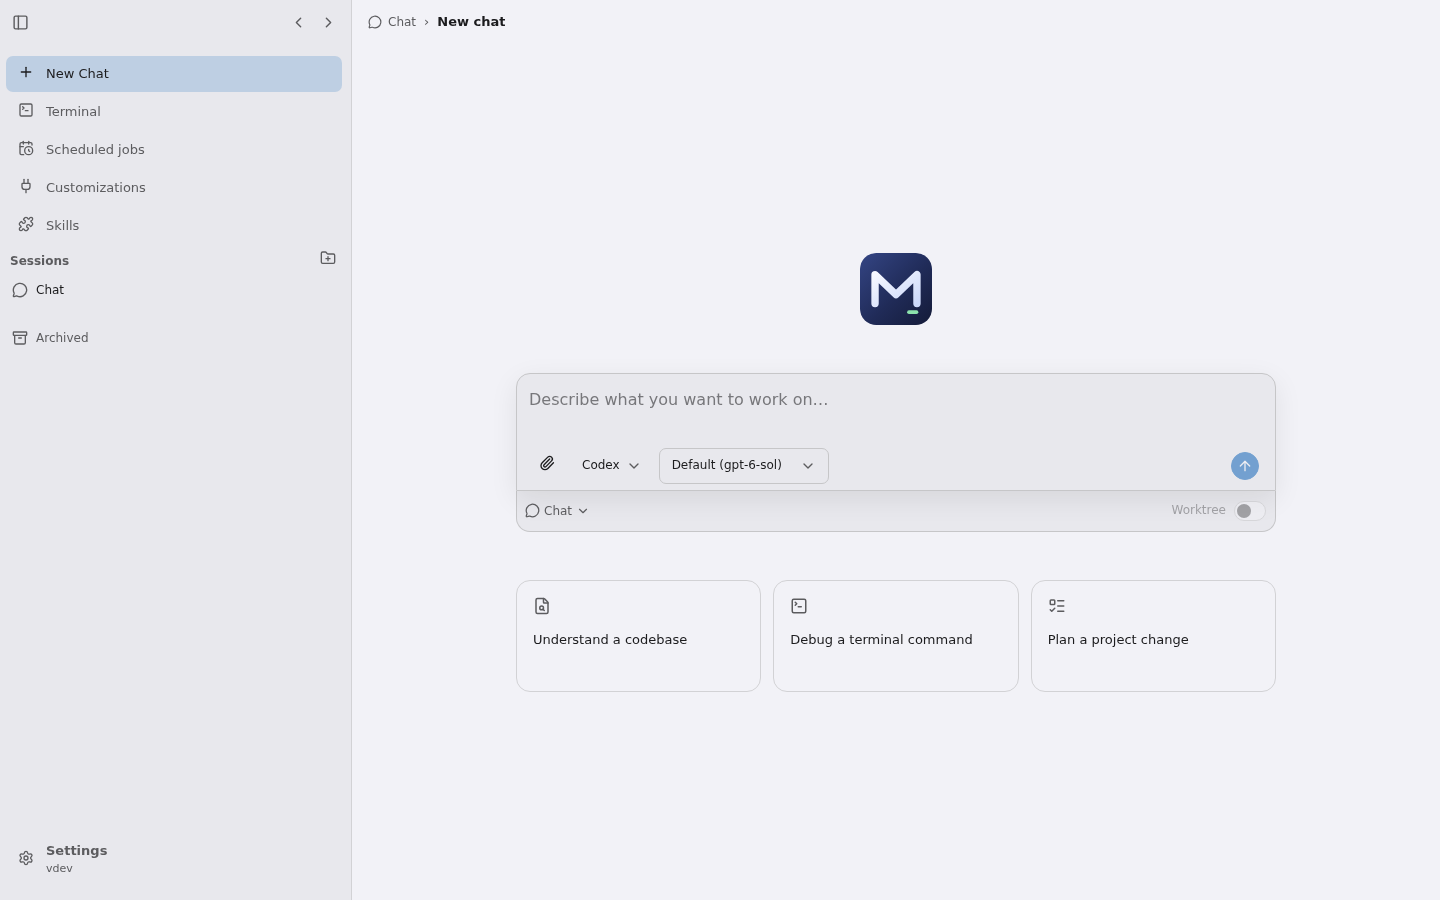
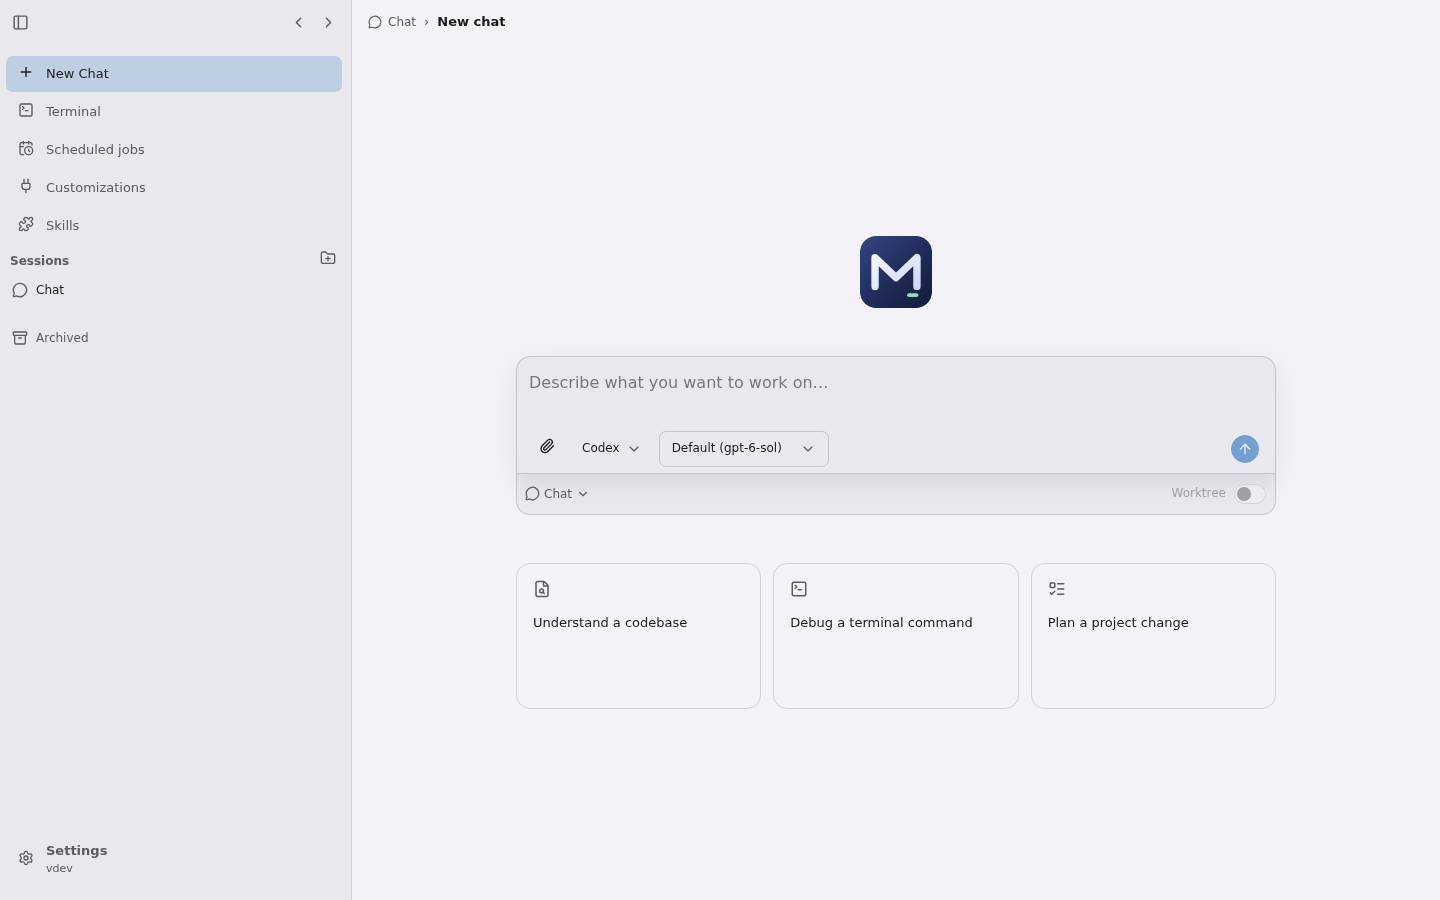
Use shared UI controls for starter prompts

diff --git a/web/src/components/mux-new-chat.ts b/web/src/components/mux-new-chat.ts
@@ -102,9 +102,10 @@ export class MuxNewChat extends LitElement {
     .main { flex:1; min-height:0; display:flex; flex-direction:column; justify-content:center; align-items:center; padding:var(--ui-space-8); overflow:auto; }
     .main.setup { justify-content:flex-start; }
     .identity { display:flex; justify-content:center; margin:0 0 var(--ui-space-11); }
-    .identity img { width:72px; height:72px; border-radius:var(--ui-radius-xl); }
+    .identity img { width:var(--ui-space-14); height:var(--ui-space-14); border-radius:var(--ui-radius-xl); }
     .starter-prompts { display:grid; grid-template-columns:repeat(3,minmax(0,1fr)); gap:var(--ui-space-5); margin-top:var(--ui-space-11); }
-    .starter-prompt { display:flex; flex-direction:column; align-items:flex-start; gap:var(--ui-space-6); min-height:112px; padding:var(--ui-space-6); border:1px solid var(--ui-shell-divider); border-radius:var(--ui-radius-xl); background:var(--ui-surface-base); color:var(--ui-text); text-align:left; font:var(--ui-text-md)/1.45 var(--ui-font-sans); cursor:pointer; }
+    .starter-prompt { display:flex; flex-direction:column; align-items:flex-start; gap:var(--ui-space-6); min-height:var(--ui-new-chat-starter-min-height); padding:var(--ui-space-6); border:1px solid var(--ui-shell-divider); border-radius:var(--ui-radius-xl); background:var(--ui-surface-base); color:var(--ui-text); text-align:left; font:var(--ui-text-md)/1.45 var(--ui-font-sans); cursor:pointer; }
+    .starter-prompt::part(button) { display:flex; flex-direction:column; align-items:flex-start; justify-content:flex-start; gap:var(--ui-space-6); width:100%; min-height:0; padding:0; border:0; border-radius:0; background:transparent; color:inherit; font:inherit; white-space:normal; text-align:left; }
     .starter-prompt .lucide-icon { color:var(--ui-text-muted); }
     .starter-prompt:hover { background:var(--ui-surface-hover); border-color:var(--ui-border); }
     .starter-prompt:focus-visible { outline:2px solid var(--ui-focus); outline-offset:2px; }
@@ -155,9 +156,10 @@ export class MuxNewChat extends LitElement {
     @media(max-width:550px) {
       .main { padding:var(--ui-space-6); }
       .identity { margin-bottom:var(--ui-space-8); }
-      .identity img { width:56px; height:56px; }
+      .identity img { width:var(--ui-space-12); height:var(--ui-space-12); }
       .starter-prompts { grid-template-columns:1fr; gap:var(--ui-space-3); margin-top:var(--ui-space-8); }
       .starter-prompt { min-height:0; flex-direction:row; align-items:center; gap:var(--ui-space-4); padding:var(--ui-space-4); }
+      .starter-prompt::part(button) { flex-direction:row; align-items:center; gap:var(--ui-space-4); }
       h1 { font-size:var(--ui-text-3xl); }
       .controls { position:relative; gap:var(--ui-space-3); }
       .location-trigger::part(button) { min-height:var(--ui-control-lg); }
@@ -606,9 +608,9 @@ export class MuxNewChat extends LitElement {
         <mux-ui-switch label="Worktree" accessible-label="Use a separate Git worktree" .checked=${this.workMode === 'worktree'} .tooltip=${this.projectId === 'ungrouped' || selectedProject?.managedFolder ? 'Choose a project with a Git folder to use a worktree' : 'Start this chat in a separate Git worktree'} ?disabled=${this.projectId === 'ungrouped' || !!selectedProject?.managedFolder} @change=${(event:CustomEvent<{checked:boolean}>) => { this.workMode = event.detail.checked ? 'worktree' : 'local'; }}></mux-ui-switch>
       </div>
       <div class="starter-prompts" aria-label="Starting points">
-        <button class="starter-prompt" type="button" @click=${() => this.useStarterPrompt('Help me understand this codebase and where to start.')}>${icon(FileSearch,{size:18})}<span>Understand a codebase</span></button>
-        <button class="starter-prompt" type="button" @click=${() => this.useStarterPrompt('Help me debug a failing command in my terminal.')}>${icon(SquareTerminal,{size:18})}<span>Debug a terminal command</span></button>
-        <button class="starter-prompt" type="button" @click=${() => this.useStarterPrompt('Help me plan and implement a change in this project.')}>${icon(ListTodo,{size:18})}<span>Plan a project change</span></button>
+        <mux-ui-button class="starter-prompt" variant="quiet" @click=${() => this.useStarterPrompt('Help me understand this codebase and where to start.')}>${icon(FileSearch,{size:18})}<span>Understand a codebase</span></mux-ui-button>
+        <mux-ui-button class="starter-prompt" variant="quiet" @click=${() => this.useStarterPrompt('Help me debug a failing command in my terminal.')}>${icon(SquareTerminal,{size:18})}<span>Debug a terminal command</span></mux-ui-button>
+        <mux-ui-button class="starter-prompt" variant="quiet" @click=${() => this.useStarterPrompt('Help me plan and implement a change in this project.')}>${icon(ListTodo,{size:18})}<span>Plan a project change</span></mux-ui-button>
       </div>
       ${this.projectDialogOpen ? html`<mux-ui-dialog open size="compact" presentation="adaptive" label="New project folder" .dismissable=${!this.projectCreating} @dismiss=${this.closeProjectDialog}><div class="new-folder-form">
         <h2>New project folder${this.remoteHost ? ` on ${sdkChats.remoteHosts.find(host => host.id === this.remoteHost)?.name || 'remote machine'}` : ''}</h2>

diff --git a/web/src/components/mux-sdk-utility.ts b/web/src/components/mux-sdk-utility.ts
@@ -1378,7 +1378,7 @@ export class MuxSDKUtility extends LitElement {
     mux-sdk-utility .document-frame { display:block; box-sizing:border-box; flex:1; width:100%; min-height:var(--ui-utility-document-frame-min-height); border:0; background:var(--ui-document-surface); }
     mux-sdk-utility mux-sdk-pdf-preview { display:block; flex:1; min-height:0; }
     mux-sdk-utility .vertical-resizer { position:relative; cursor:col-resize; background:transparent; touch-action:none; }
-    mux-sdk-utility .vertical-resizer::after { content:''; position:absolute; top:0; bottom:0; left:calc(50% - .5px); width:1px; background:var(--ui-shell-divider); pointer-events:none; }
+    mux-sdk-utility .vertical-resizer::after { content:''; position:absolute; top:0; bottom:0; left:calc(50% - .5px); width:var(--ui-divider-thickness); background:var(--ui-shell-divider); pointer-events:none; }
     mux-sdk-utility .vertical-resizer:hover, mux-sdk-utility .vertical-resizer:focus-visible { outline:0; }
     mux-sdk-utility .vertical-resizer:hover::after, mux-sdk-utility .vertical-resizer:focus-visible::after { background:var(--ui-accent); }
     mux-sdk-utility .changes-list { grid-column:3; grid-row:1; min-width:0; min-height:0; overflow:auto; background:var(--ui-surface-base); }

diff --git a/web/src/ui/tokens.css b/web/src/ui/tokens.css
@@ -134,6 +134,7 @@
   --ui-picker-trigger-width: 290px;
   --ui-picker-trigger-compact-width: 170px;
   --ui-chat-content-width: 790px;
+  --ui-new-chat-starter-min-height: 112px;
   --ui-chat-transcript-width: 760px;
   --ui-chat-visualization-wide-width: 1024px;
   --ui-chat-report-width: 720px;

diff --git a/web/src/app.ts b/web/src/app.ts
@@ -359,7 +359,7 @@ export class MuxApp extends LitElement {
       top: 0;
       bottom: 0;
       right: 0;
-      width: 1px;
+      width: var(--ui-divider-thickness);
       background: var(--ui-shell-divider);
       pointer-events: none;
     }
